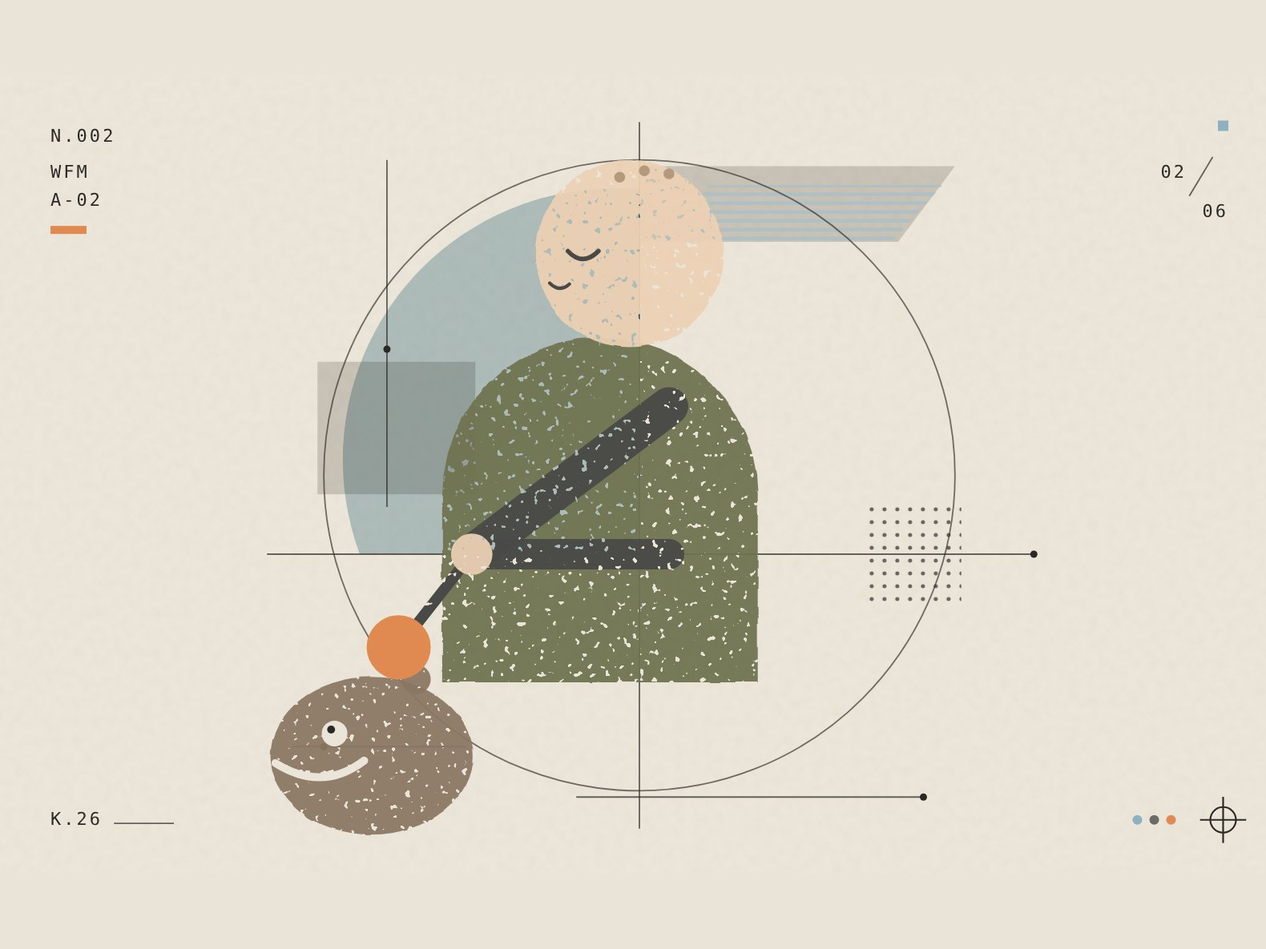
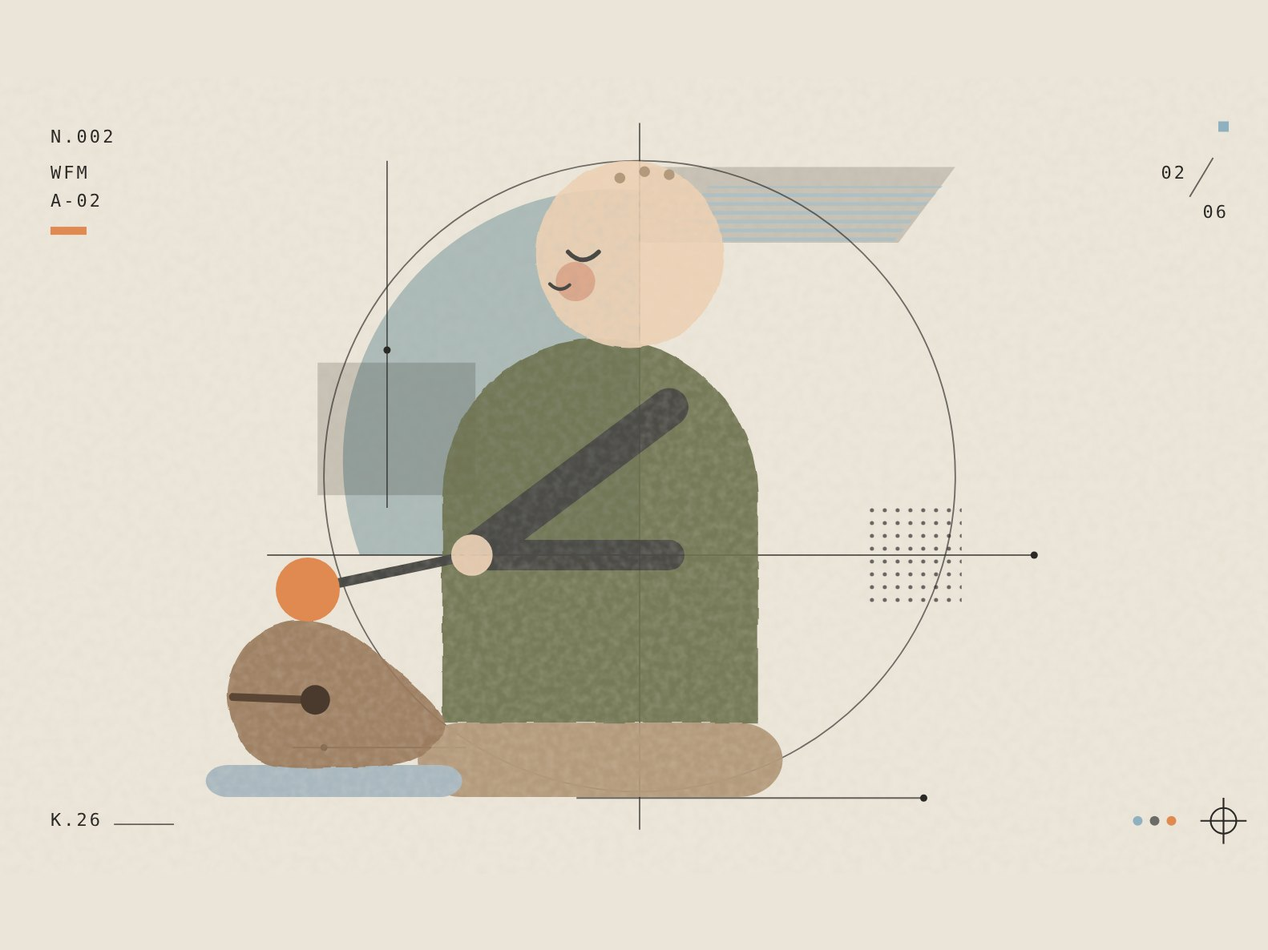
Linkages: seated monk with real-shaped wooden fish, lighter texture, horse card, example thumbnails
Claude-Session: https://claude.ai/code/session_01NPfPdtJwC2J2tRpUdWuEC5

diff --git a/projects/linkage/index.html b/projects/linkage/index.html
@@ -469,9 +469,19 @@ svg.plate.tone .k-hl { stroke: #e08a52 !important; stroke-width: .12 !important;
 svg.plate.tone .k-back { opacity: .42 !important; }
 svg.plate.tone .k-disc { stroke-opacity: .75 !important; stroke-width: .05px !important; }
 svg.plate.tone .r-disc { display: inline; fill: #a9c3cf !important; opacity: .7 !important; stroke: none !important; mix-blend-mode: normal !important; }
-svg.plate.tone .r-cush { display: inline; fill: #c8c7c3 !important; opacity: .8 !important; stroke: none !important; }
+
 svg.plate.tone .r-hit { display: inline; fill: #e08a52 !important; stroke: none !important; }
 svg.plate.tone .pl-accent { r: .3; }
+
+/* ── v3：木魚、蒲團、臉頰 ── */
+svg.plate .r-cush { display: inline; fill: #b49a7c !important; fill-opacity: 1 !important; opacity: 1 !important; stroke: none !important; mix-blend-mode: normal !important; }
+svg.plate .r-pad { display: inline; fill: #a9b8bf !important; fill-opacity: 1 !important; opacity: 1 !important; stroke: none !important; mix-blend-mode: normal !important; }
+svg.plate .r-fish { fill: #9a7a5c !important; }
+svg.plate .k-fish-slot { stroke: #5b4636 !important; stroke-width: .16 !important; stroke-linecap: round; fill: none; }
+svg.plate .k-feye { fill: #4a3a2e !important; }
+svg.plate .r-cheek { display: inline; fill: #e7a99a !important; opacity: .55; }
+svg.plate .k-stick { stroke-width: .2 !important; stroke-linecap: round; }
+svg.plate.tone .r-cush { display: inline; }
 
 </style>
 </head>
@@ -641,7 +651,7 @@ svg.plate.tone .pl-accent { r: .3; }
   <div class="cards">
     <a href="parallel/"><svg class="glyph" data-no="001" data-l="P / A / R" data-c="0.000,-0.500" data-r="6.200" data-ay="1.000" viewBox="-10.416 -7.010 20.832 13.020" aria-hidden="true"><path d="M-2.000 1.000L2.000 1.000" class="k-bar k-base"/><path d="M-2.000 1.000L-2.000 0.000" class="k-bar" style="stroke-width:.75"/><path d="M0.000 -1.000L0.000 -2.000" class="k-bar" style="stroke-width:.75"/><path d="M-4.000 0.000L4.000 0.000L0.000 -3.000Z" class="k-tri"/><circle cx="2.000" cy="1.000" r="1.800" class="k-disc"/><circle cx="-2.000" cy="1.000" r=".13" class="s-fixed"/><circle cx="0.000" cy="-1.000" r=".13" class="s-fixed"/><circle cx="2.000" cy="1.000" r=".13" class="s-fixed"/><circle cx="-2.000" cy="0.000" r=".13" class="s-joint"/><circle cx="0.000" cy="-2.000" r=".13" class="s-joint"/><circle cx="2.000" cy="0.000" r=".36" class="s-joint pl-accent"/></svg><b>三曲柄平移</b><small>Parallel Cranks</small><p>三根一樣長的曲柄帶著一塊板平移，板子不轉。最簡單的起點。</p><span class="meta">1 · 平行曲柄 · 5 片 · 圖釘 6 支</span></a>
     <a href="#sim"><svg id="card-fish" aria-hidden="true"></svg><b>敲木魚</b><small>Wooden Fish</small><p>小和尚慢慢舉槌、快速敲下，一組四連桿的急回。就在這一頁。</p><span class="meta">2 · 1 組四連桿 · 5 片 · 圖釘 4 支</span></a>
-    <a href="../horse-linkage/"><svg viewBox="-1 -1 22 13" aria-hidden="true"><path d="M1 10H21" class="k-floor"/><path d="M2 9L6 3L12 2L19 4L17 9Z" class="k-tri k-front"/><path d="M2 9L5 6" class="k-bar k-back"/><circle cx="17" cy="9" r="1.5" class="k-disc"/><path d="M2 9L6 3M6 3L18 8M17 9L18 8M2 9L17 9" class="k-skel"/><circle cx="2" cy="9" r=".3" class="s-fixed"/><circle cx="17" cy="9" r=".3" class="s-fixed"/></svg><b>壢馬連桿</b><small>Horse Linkage</small><p>校園銅馬跑起來。一組四連桿，前後半身一前一後擺動。</p><span class="meta">3 · 1 組四連桿 · 4 片 · 圖釘 4 支</span></a>
+    <a href="../horse-linkage/"><svg class="glyph" data-no="003" data-l="H / R / S" data-c="4.029,-6.782" data-r="10.397" data-ay="-0.000" viewBox="-13.438 -17.699 34.933 21.833" aria-hidden="true"><path d="M0.000 0.000L11.000 -0.000" class="k-bar k-base"/><path d="M-0.269 0.528L-0.437 0.462L-0.496 -0.058L-0.535 -0.253L-0.234 -0.565L-0.058 -0.582L-0.015 -0.776L-0.023 -1.129L-0.179 -1.562L-0.422 -2.208L-0.736 -2.549L-0.823 -2.773L-0.827 -2.773L-1.101 -3.221L-0.942 -3.485L-0.392 -3.723L0.225 -4.213L0.467 -4.463L0.686 -4.733L0.805 -4.966L0.645 -5.233L0.513 -5.379L0.393 -5.680L0.313 -5.962L0.141 -6.260L0.112 -6.750L0.104 -7.047L0.207 -7.382L0.218 -7.547L-0.215 -7.726L-0.525 -7.769L-1.164 -7.812L-1.501 -7.781L-1.858 -7.585L-2.278 -7.580L-2.859 -7.668L-3.094 -7.838L-3.531 -8.088L-3.900 -8.425L-4.356 -8.993L-3.125 -8.842L-2.527 -8.468L-2.235 -8.558L-1.754 -8.915L-1.296 -9.138L-0.942 -9.067L-0.500 -8.714L0.051 -8.265L0.597 -8.052L0.813 -8.209L1.422 -8.492L2.113 -8.606L2.835 -8.373L3.515 -7.491L3.533 -6.517L3.285 -6.040L3.642 -5.569L3.655 -4.851L3.303 -3.722L3.262 -3.726L3.105 -3.396L3.002 -2.879L3.157 -2.535L3.721 -2.291L4.325 -1.991L4.723 -1.744L4.783 -1.500L5.099 -1.001L5.064 -0.706L4.975 -0.452L4.532 -0.455L4.250 -0.626L4.041 -0.981L4.195 -1.306L4.012 -1.529L3.310 -2.012L2.784 -2.257L2.276 -2.579L2.094 -2.741L2.254 -3.186L2.371 -3.373L2.445 -3.641L2.471 -3.928L2.492 -4.565L2.442 -5.065L2.302 -4.820L1.895 -4.272L1.214 -3.810L0.354 -3.286L-0.005 -3.090L-0.090 -2.914L-0.045 -2.503L0.158 -1.848L0.462 -0.995L0.379 -0.677L0.526 -0.386L0.567 0.061L0.400 0.343L0.094 0.471Z" class="k-tri"/><path d="M2.271 -8.824L1.732 -7.732L2.272 -6.005L3.380 -5.877L3.753 -5.541L5.065 -5.443L6.235 -5.560L6.987 -5.825L7.449 -5.904L7.917 -5.892L8.365 -5.168L8.842 -4.279L9.276 -3.518L9.442 -3.191L9.655 -3.034L9.890 -2.486L10.127 -1.901L10.415 -1.374L10.639 -1.032L10.972 -1.086L11.091 -0.962L11.017 -0.584L11.178 -0.369L11.686 -0.303L12.156 -0.234L12.413 -0.322L12.181 -0.813L11.917 -1.210L11.361 -1.499L10.993 -1.760L10.619 -2.468L10.176 -3.080L10.073 -3.616L9.371 -4.513L9.475 -5.022L9.193 -5.773L9.140 -6.068L9.909 -6.352L10.608 -6.538L10.904 -6.255L11.125 -5.594L11.220 -5.207L11.231 -5.040L11.271 -4.969L11.055 -4.807L10.879 -4.610L10.754 -4.492L11.064 -3.949L11.243 -3.734L11.700 -4.128L11.784 -4.454L11.700 -4.972L11.739 -5.310L11.507 -5.802L11.164 -6.623L11.031 -7.028L10.776 -7.257L10.089 -7.203L9.505 -7.283L9.497 -7.432L9.285 -7.907L9.215 -8.538L9.098 -8.979L8.957 -9.532L8.728 -9.968L8.430 -10.663L8.549 -10.892L9.005 -11.104L9.153 -11.111L9.482 -10.904L9.668 -10.914L9.894 -10.889L10.252 -11.169L10.439 -11.515L10.277 -12.063L9.819 -12.305L9.243 -12.591L9.044 -12.823L8.576 -13.210L8.288 -13.344L7.925 -13.531L7.666 -13.815L7.260 -14.093L7.434 -13.616L7.299 -13.348L7.478 -13.133L7.585 -12.877L6.908 -12.598L7.235 -12.429L6.797 -12.219L6.283 -11.852L6.636 -11.763L6.275 -11.500L5.814 -11.047L6.384 -11.226L6.086 -10.856L5.700 -10.386L6.372 -10.385L5.390 -9.802L5.883 -9.763L6.082 -9.867L5.770 -9.421L5.378 -9.399L4.987 -9.378L4.875 -9.017L4.630 -9.060L4.090 -8.696L3.561 -8.799L3.109 -8.886L2.679 -8.901Z" class="k-tri"/><circle cx="11.000" cy="-0.000" r="1.800" class="k-disc"/><circle cx="0.000" cy="0.000" r=".13" class="s-fixed"/><circle cx="11.000" cy="-0.000" r=".13" class="s-fixed"/><circle cx="2.959" cy="-7.433" r=".13" class="s-joint"/><circle cx="11.682" cy="-0.731" r=".36" class="s-joint pl-accent"/></svg><b>壢馬連桿</b><small>Horse Linkage</small><p>校園銅馬跑起來。一組四連桿，前後半身一前一後擺動。</p><span class="meta">3 · 1 組四連桿 · 4 片 · 圖釘 4 支</span></a>
     <a href="beast/"><svg class="glyph" data-no="004" data-l="B / S / T" data-c="-0.000,3.500" data-r="14.569" data-ay="0.000" viewBox="-24.475 -11.797 48.951 30.594" aria-hidden="true"><path d="M0.000 0.000L-5.000 0.000" class="k-bar k-base"/><path d="M5.000 0.000L9.000 0.000L5.000 -4.000Z" class="k-tri"/><path d="M5.000 0.000L5.000 5.000" class="k-bar" style="stroke-width:.75"/><path d="M0.000 -1.000L5.000 -4.000" class="k-bar" style="stroke-width:.75"/><path d="M0.000 -1.000L5.000 5.000" class="k-bar" style="stroke-width:.75"/><path d="M9.000 0.000L9.000 5.000" class="k-bar" style="stroke-width:.75"/><path d="M5.000 11.000L9.000 5.000L5.000 5.000Z" class="k-tri"/><path d="M-9.000 0.000L-5.000 0.000L-5.000 -4.000Z" class="k-tri"/><path d="M-5.000 5.000L-5.000 0.000" class="k-bar" style="stroke-width:.75"/><path d="M0.000 -1.000L-5.000 -4.000" class="k-bar" style="stroke-width:.75"/><path d="M0.000 -1.000L-5.000 5.000" class="k-bar" style="stroke-width:.75"/><path d="M-9.000 0.000L-9.000 5.000" class="k-bar" style="stroke-width:.75"/><path d="M-9.000 5.000L-5.000 11.000L-5.000 5.000Z" class="k-tri"/><circle cx="0.000" cy="0.000" r="1.800" class="k-disc"/><circle cx="0.000" cy="0.000" r=".13" class="s-fixed"/><circle cx="5.000" cy="0.000" r=".13" class="s-fixed"/><circle cx="-5.000" cy="0.000" r=".13" class="s-fixed"/><circle cx="0.000" cy="-1.000" r=".36" class="s-joint pl-accent"/><circle cx="5.000" cy="-4.000" r=".13" class="s-joint"/><circle cx="9.000" cy="0.000" r=".13" class="s-joint"/><circle cx="5.000" cy="5.000" r=".13" class="s-joint"/><circle cx="-5.000" cy="-4.000" r=".13" class="s-joint"/><circle cx="-9.000" cy="0.000" r=".13" class="s-joint"/><circle cx="-5.000" cy="5.000" r=".13" class="s-joint"/><circle cx="9.000" cy="5.000" r=".13" class="s-joint"/><circle cx="-9.000" cy="5.000" r=".13" class="s-joint"/></svg><b>仿生獸</b><small>Beast</small><p>一個曲柄帶兩組四連桿和一個平行四邊形，腳掌畫出走路的軌跡。</p><span class="meta">4 · 2 組四連桿 · 一隻腳 7 片 · 圖釘 7 支</span></a>
     <a href="quadruped/"><svg class="glyph" data-no="005" data-l="Q / D / R" data-c="-2.157,-3.573" data-r="17.105" data-ay="0.000" viewBox="-30.894 -21.534 57.474 35.921" aria-hidden="true"><path d="M-4.500 0.000L4.500 0.000" class="k-bar k-base"/><path d="M-3.500 -6.000L4.500 0.000L2.500 -6.000Z" class="k-tri"/><path d="M4.500 0.000L7.500 6.000L8.120 -8.620L5.500 -6.000Z" class="k-tri"/><path d="M-5.500 6.000L-3.500 -6.000L-5.500 -0.000Z" class="k-tri"/><path d="M-5.500 -0.000L5.500 -6.000L-1.500 -6.000Z" class="k-tri"/><path d="M-7.500 -5.000L-5.500 -0.000L-4.500 -4.000Z" class="k-tri"/><path d="M-15.500 -7.000L-14.500 -6.000L-7.500 -5.000L-3.500 -6.000L-8.500 -13.000Z" class="k-tri"/><circle cx="-4.500" cy="0.000" r="1.800" class="k-disc"/><circle cx="-4.500" cy="0.000" r=".13" class="s-fixed"/><circle cx="4.500" cy="0.000" r=".13" class="s-fixed"/><circle cx="-5.500" cy="-0.000" r=".36" class="s-joint pl-accent"/><circle cx="5.500" cy="-6.000" r=".13" class="s-joint"/><circle cx="-3.500" cy="-6.000" r=".13" class="s-joint"/><circle cx="-7.500" cy="-5.000" r=".13" class="s-joint"/></svg><b>四腳獸</b><small>Quadruped</small><p>一個曲柄同時帶動前腳、後腳、點頭和搖尾巴。</p><span class="meta">5 · 多組連桿 · 8 片 · 圖釘 6 支</span></a>
     <a href="excavator/"><svg class="glyph" data-no="006" data-l="E / X / C" data-c="6.778,-4.027" data-r="15.923" data-ay="0.000" viewBox="-19.973 -20.747 53.502 33.439" aria-hidden="true"><path d="M-2.000 0.000L2.000 0.000" class="k-bar k-base"/><path d="M-5.649 -2.550L2.000 0.000L7.000 -6.000Z" class="k-tri"/><path d="M-1.000 -1.000L6.000 -8.000" class="k-bar" style="stroke-width:.75"/><path d="M6.000 -8.000L7.000 -6.000L13.000 -0.000L9.000 -7.000Z" class="k-tri"/><path d="M4.000 -3.000L14.000 -2.000" class="k-bar" style="stroke-width:.75"/><path d="M10.999 5.000L12.999 5.000L15.999 4.000L16.999 2.000L16.000 0.000L14.000 -2.000L13.000 -0.000Z" class="k-tri"/><circle cx="-2.000" cy="0.000" r="2.214" class="k-disc"/><circle cx="-2.000" cy="0.000" r=".13" class="s-fixed"/><circle cx="2.000" cy="0.000" r=".13" class="s-fixed"/><circle cx="-1.000" cy="-1.000" r=".36" class="s-joint pl-accent"/><circle cx="7.000" cy="-6.000" r=".13" class="s-joint"/><circle cx="4.000" cy="-3.000" r=".13" class="s-joint"/><circle cx="6.000" cy="-8.000" r=".13" class="s-joint"/><circle cx="13.000" cy="-0.000" r=".13" class="s-joint"/><circle cx="14.000" cy="-2.000" r=".13" class="s-joint"/></svg><b>挖土機</b><small>Excavator</small><p>曲柄銷在滑槽裡滑，大臂擺動，挖斗畫出挖土的軌跡。</p><span class="meta">6 · 滑槽 + 2 組四連桿 · 7 片 · 圖釘 8 支</span></a>
@@ -877,7 +887,7 @@ let PLATE_N=0;
 function plateize(svg,inkSel){
   const u='pl'+(PLATE_N++)+'-';svg.classList.remove('quiet');svg.classList.add('riso','plate');
   const defs=document.createElementNS(NS,'defs');
-  defs.innerHTML=`<filter id="${u}ink" x="-5%" y="-5%" width="110%" height="110%"><feTurbulence type="fractalNoise" baseFrequency="7" numOctaves="2" seed="11" result="n"/><feColorMatrix in="n" type="matrix" values="0 0 0 0 0  0 0 0 0 0  0 0 0 0 0  0 0 0 -30 21.5" result="m"/><feComposite in="SourceGraphic" in2="m" operator="in"/></filter>
+  defs.innerHTML=`<filter id="${u}ink" x="-5%" y="-5%" width="110%" height="110%"><feTurbulence type="fractalNoise" baseFrequency="6" numOctaves="2" seed="11" result="n"/><feColorMatrix in="n" type="matrix" values="0 0 0 0 0  0 0 0 0 0  0 0 0 0 0  0 0 0 -0.3 1.1" result="m"/><feComposite in="SourceGraphic" in2="m" operator="in"/></filter>
     <filter id="${u}paper" x="0" y="0" width="100%" height="100%"><feTurbulence type="fractalNoise" baseFrequency="5" numOctaves="2" seed="5"/><feColorMatrix type="matrix" values="0 0 0 0 .45  0 0 0 0 .4  0 0 0 0 .33  0 0 0 -1.4 .95"/></filter>`;
   svg.insertBefore(defs,svg.firstChild);
   let paper=svg.querySelector('.r-paper');if(!paper){paper=document.createElementNS(NS,'rect');paper.setAttribute('class','r-paper');for(const [k,v] of [['x',-200],['y',-200],['width',400],['height',400]])paper.setAttribute(k,v);svg.insertBefore(paper,defs.nextSibling);}
@@ -931,18 +941,24 @@ function toneize(svg,inkSel){plateize(svg,inkSel);svg.classList.add('tone');}
 
 const QR=["111111101010100000111101001111111", "100000101101101011001111101000001", "101110100010011100110000001011101", "101110101110100000100011101011101", "101110100010110010100100101011101", "100000100111101111100100101000001", "111111101010101010101010101111111", "000000001100100111110001000000000", "101101110001101111101100001001011", "000100001001011011011111001101101", "011110101110010010100011110111011", "001000011111000011001000001101001", "001001100010001010011000110111011", "010010001001101001001000100001110", "010110110000101001011000101100100", "010010000110011100100101111101100", "100000101010000000101100011011100", "010000011001101100100111101011011", "001110111011110100101010011110110", "110101000001001011100010001010000", "111010111010111110000010000101110", "111000001101111110001001001001101", "000001111110010101111111011000011", "010111001011110100001011110111001", "100100100110011001010011111110011", "000000001101001110010100100011010", "111111101101101001111101101010000", "100000101101010011111001100011100", "101110100101110111110011111110101", "101110101101101010010011100100011", "101110101110000111001001001101000", "100000100111101001001011100110001", "111111101001110011110101000011100"];
 /* ── 敲木魚・小和尚：D（肚子）在原點、A（肩膀）在右上 (2, 3)；長度 cm，y 向上 ── */
-const GA=[2,3],DEF={a:2,b:4,c:5},OFF=15*Math.PI/180,MAL=2.4,HEADR=0.65,FISH={rx:2.05,ry:1.6},TH0=Math.PI/2,U=(()=>{const v=[-0.25,-1],l=Math.hypot(...v);return [v[0]/l,v[1]/l];})();
+const GA=[2,3],DEF={a:2,b:4,c:5},OFF=-25*Math.PI/180,MAL=3.4,TAIL=0.8,HEADR=0.65,FISH={rx:2.05,ry:1.6},TH0=Math.PI/2,U=(()=>{const v=[-0.25,-1],l=Math.hypot(...v);return [v[0]/l,v[1]/l];})();
 const ROBE=[[-0.5,3.7],[0.6,4.35],[2.2,4.4],[3.3,3.8],[3.85,1.8],[4.05,-1.0],[3.6,-2.5],[1.5,-2.75],[-2.3,-2.7],[-3.2,-2.25],[-3.05,-1.45],[-1.6,-1.05],[-1.05,0.9],[-0.85,2.8]];
 const HEAD={c:[1.2,6.1],r:1.9};
+/* 木魚側面：左邊圓鼓、往右收尖，側面一道魚嘴縫，縫底一個圓孔（y 向上，原點在木魚中心） */
+const FISH_CP=[[-2.15,-0.15],[-1.85,0.95],[-0.95,1.5],[0.15,1.35],[1.25,0.55],[2.25,-0.55],[1.55,-1.3],[0,-1.45],[-1.55,-1.3]];
+let FISH_P=null;const fishPts=()=>FISH_P||(FISH_P=smoothPts(FISH_CP,8));
+const FISH_TOP=()=>fishPts().reduce((m,q)=>q[1]>m[1]?q:m);
 /* 平滑曲線（Catmull–Rom），讓身體圓一點 */
 function smoothPts(P,n=8){const out=[],N=P.length;for(let i=0;i<N;i++){const p0=P[(i-1+N)%N],p1=P[i],p2=P[(i+1)%N],p3=P[(i+2)%N];
   for(let k=0;k<n;k++){const t=k/n,t2=t*t,t3=t2*t;out.push([0,1].map(j=>0.5*((2*p1[j])+(-p0[j]+p2[j])*t+(2*p0[j]-5*p1[j]+4*p2[j]-p3[j])*t2+(-p0[j]+3*p1[j]-3*p2[j]+p3[j])*t3)));}}return out;}
-const ROBE_S=(()=>{const P=[[-2.6,-2.6],[3.8,-2.6],[3.8,1.2]];for(let k=0;k<=24;k++){const a=Math.PI*k/24;P.push([0.6+3.2*Math.cos(a),1.2+3.2*Math.sin(a)]);}P.push([-2.6,1.2]);return P;})();
+const ROBE_S=(()=>{const P=[[-2.6,-3.4],[3.8,-3.4],[3.8,1.2]];for(let k=0;k<=24;k++){const a=Math.PI*k/24;P.push([0.6+3.2*Math.cos(a),1.2+3.2*Math.sin(a)]);}P.push([-2.6,1.2]);return P;})();
 /* 臉、戒疤、袈裟、木魚的五官：y 向上，畫面上用 -y */
 function monkFace(o){const c=HEAD.c,x=c[0],y=c[1];
   return {eye:`M${x-1.25} ${-(y+0.05)}q.3 .32 .62 0`,cheek:[x-1.1,y-0.55,0.32],mouth:`M${x-1.62} ${-(y-0.6)}q.2 .2 .4 .02`,
     dots:[[x-0.2,y+1.55],[x+0.3,y+1.68],[x+0.8,y+1.62]],ear:[x+0.6,y-0.2,0.42],sash:`M-0.9 -3.9L3.6 0.6`};}
 function fishFace(F){const x=F[0],y=F[1];
+  return {path:'M'+fishPts().map(q=>f3(x+q[0])+' '+f3(-(y+q[1]))).join('L')+'Z',mouth:`M${f3(x-2.05)} ${f3(-(y-0.02))}L${f3(x-0.55)} ${f3(-(y-0.08))}`,eye:[x-0.38,y-0.08,0.3]};}
+function fishFaceOld(F){const x=F[0],y=F[1];
   return {mouth:`M${f3(x-1.95)} ${f3(-(y-0.15))}Q${f3(x-1.0)} ${f3(-(y-0.75))} ${f3(x-0.15)} ${f3(-(y-0.1))}`,eye:[x-0.75,y+0.45,0.26],glint:[x-0.82,y+0.53,0.08],
     scales:`M${f3(x+0.35)} ${f3(-(y+0.75))}q.35 .3 .7 0M${f3(x+0.55)} ${f3(-(y+0.15))}q.35 .3 .7 0M${f3(x+0.3)} ${f3(-(y-0.45))}q.35 .3 .7 0`,
     shine:`M${f3(x-1.3)} ${f3(-(y+1.05))}q.5 -.35 1.1 -.35`,knob:[x+0.9,y+FISH.ry-0.05,0.3]};}
@@ -960,15 +976,15 @@ function analyse(s){
   const list=sw.list;let iMax=0,iMin=0;
   list.forEach((g,i)=>{if(g.phi>list[iMax].phi)iMax=i;if(g.phi<list[iMin].phi)iMin=i;});
   let fish=null,floor=-5,ratio=null;
-  if(list.length){const H=list[iMax].H,rE=1/Math.sqrt(U[0]*U[0]/FISH.rx**2+U[1]*U[1]/FISH.ry**2),k=rE+HEADR;
-    const F=[H[0]+U[0]*k,H[1]+U[1]*k];fish={F,hit:[H[0]+U[0]*HEADR,H[1]+U[1]*HEADR]};floor=Math.min(F[1]-FISH.ry-0.1,-3.4);
+  if(list.length){const H=list[iMax].H,hit=[H[0]+U[0]*HEADR,H[1]+U[1]*HEADR],T=FISH_TOP();
+    const F=[hit[0]-T[0],hit[1]-T[1]];fish={F,hit};floor=Math.min(F[1]-1.45-0.6,-4.6);
     if(sw.full){const n=list.length,strike=((iMax-iMin)+n)%n;ratio=(n-strike)/strike;}}
   const g=grashof({a:s.a,b:s.b,c:s.c,d:dG},'a');
   let kind='none';
   if(list.length){kind=sw.full?(Math.abs(g.diff)<0.05?'crit':'ok'):(Math.abs(g.diff)<0.05&&g.crankShortest?'crit':'jam');}
   return {s:{...s},list,full:sw.full,iMax,iMin,swing:list.length?(list[iMax].phi-list[iMin].phi)*180/Math.PI:0,fish,floor,ratio,g,kind};
 }
-const cushion=fl=>({c:[0.6,(-2.6+fl)/2],rx:3.6,ry:Math.max(0.45,(-2.6-fl)/2)});
+const cushion=fl=>({c:[0.6,(-3.4+fl)/2],rx:3.7,ry:Math.max(0.45,(-3.4-fl)/2)});
 /* 一個畫面（hero、模擬器、小測驗共用）*/
 let VID=0;
 function view(svg,opt={}){
@@ -997,10 +1013,10 @@ function view(svg,opt={}){
   svgEl('circle','r-cheek',svg,{cx:mf.cheek[0],cy:-mf.cheek[1],r:mf.cheek[2]+0.08,fill:`url(#${u}htP)`});
   svgEl('path','k-face',svg,{d:mf.eye});svgEl('path','k-face thin',svg,{d:mf.mouth});
   for(const d of mf.dots)svgEl('circle','k-dot',svg,{cx:d[0],cy:-d[1],r:.11});
-  E.fishG=svgEl('g',null,svg);E.fpad=svgEl('ellipse','r-pad',E.fishG);E.knob=svgEl('circle','r-fish',E.fishG);
-  E.fish=svgEl('ellipse','r-fish',E.fishG,{id:u+'fish',filter:rough});E.fishHt=svgEl('ellipse','r-ht',E.fishG,{fill:`url(#${u}htC)`});
+  E.fpad=svgEl('rect','r-pad',svg,{rx:.45});E.fishG=svgEl('g',null,svg);
+  E.fish=svgEl('path','r-fish',E.fishG,{id:u+'fish',filter:rough});E.fishHt=svgEl('path','r-ht',E.fishG,{fill:`url(#${u}htC)`,transform:'translate(.35 .25)'});
   svgEl('use','r-line',E.fishG,{href:'#'+u+'fish',transform:'translate(-.1 -.07)'});
-  E.slot=svgEl('path','k-fish-slot',E.fishG);E.scale=svgEl('path','k-fish-line',E.fishG);E.feye=svgEl('circle','k-feye',E.fishG);E.fglint=svgEl('circle','k-glint',E.fishG);E.fshine=svgEl('path','k-shine',E.fishG);
+  E.slot=svgEl('path','k-fish-slot',E.fishG);E.feye=svgEl('circle','k-feye',E.fishG);
   E.disc=svgEl('circle','r-disc',svg,{cx:0,cy:0});E.beads=svgEl('circle','k-beads',svg,{cx:0,cy:0});
   E.coup=svgEl('path','r-coup',svg);
   E.arm=svgEl('path','r-arm',svg);E.stick=svgEl('path','k-stick',svg);E.mhead=svgEl('circle','r-mhead',svg,{r:HEADR});E.hand=svgEl('circle','r-hand',svg,{r:.42});
@@ -1015,22 +1031,18 @@ function view(svg,opt={}){
   const V={E,an:null,idx:0,dirPP:1,flash:0,merit:0,onHit:null,
     set(an){this.an=an;this.idx=0;this.dirPP=1;const s=an.s;
       E.disc.setAttribute('r',s.a+0.8);E.beads.setAttribute('r',s.a+0.45);
-      const cu=cushion(an.floor);for(const [e,dx,dy] of [[E.cush,0,0],[E.cushHt,.35,.2]]){e.setAttribute('x',cu.c[0]-cu.rx+dx);e.setAttribute('y',-cu.c[1]-cu.ry+dy);e.setAttribute('width',2*cu.rx);e.setAttribute('height',2*cu.ry);}
+      const cu=cushion(an.floor);E.cush.setAttribute('rx',.9);for(const [e,dx,dy] of [[E.cush,0,0],[E.cushHt,.35,.2]]){e.setAttribute('x',cu.c[0]-cu.rx+dx);e.setAttribute('y',-cu.c[1]-cu.ry+dy);e.setAttribute('width',2*cu.rx);e.setAttribute('height',2*cu.ry);}
       E.floor.setAttribute('x1',vb[0]);E.floor.setAttribute('x2',vb[0]+vb[2]);E.floor.setAttribute('y1',-an.floor);E.floor.setAttribute('y2',-an.floor);
-      if(an.fish){const F=an.fish.F;E.fish.setAttribute('cx',F[0]);E.fish.setAttribute('cy',-F[1]);E.fish.setAttribute('rx',FISH.rx);E.fish.setAttribute('ry',FISH.ry);
-        const ff=fishFace(F);E.slot.setAttribute('d',ff.mouth);E.scale.setAttribute('d',ff.scales);E.fshine.setAttribute('d',ff.shine);
+      if(an.fish){const F=an.fish.F,ff=fishFace(F);E.fish.setAttribute('d',ff.path);E.fishHt.setAttribute('d',ff.path);E.slot.setAttribute('d',ff.mouth);
         E.feye.setAttribute('cx',ff.eye[0]);E.feye.setAttribute('cy',-ff.eye[1]);E.feye.setAttribute('r',ff.eye[2]);
-        E.fglint.setAttribute('cx',ff.glint[0]);E.fglint.setAttribute('cy',-ff.glint[1]);E.fglint.setAttribute('r',ff.glint[2]);
-        E.knob.setAttribute('cx',ff.knob[0]);E.knob.setAttribute('cy',-ff.knob[1]);E.knob.setAttribute('r',ff.knob[2]);
-        E.fpad.setAttribute('cx',F[0]);E.fpad.setAttribute('cy',-(F[1]-FISH.ry+0.05));E.fpad.setAttribute('rx',FISH.rx*1.05);E.fpad.setAttribute('ry',0.35);
-        E.fishG.style.transformOrigin=`${F[0]}px ${-(F[1]-FISH.ry)}px`;E.fishG.style.display='';
-        E.plus.setAttribute('x',F[0]);E.plus.setAttribute('y',-F[1]-FISH.ry-0.8);E.plus2.setAttribute('x',F[0]+0.09);E.plus2.setAttribute('y',-F[1]-FISH.ry-0.74);
-        E.fishHt.setAttribute('cx',F[0]+0.45);E.fishHt.setAttribute('cy',-F[1]+0.3);E.fishHt.setAttribute('rx',FISH.rx*0.8);E.fishHt.setAttribute('ry',FISH.ry*0.75);}
-      else E.fishG.style.display='none';
+        const pb=F[1]-1.45;E.fpad.setAttribute('x',F[0]-2.6);E.fpad.setAttribute('y',-pb-0.05);E.fpad.setAttribute('width',5.2);E.fpad.setAttribute('height',Math.max(0.5,pb-an.floor+0.05));E.fpad.style.display='';
+        E.fishG.style.transformOrigin=`${F[0]}px ${-pb}px`;E.fishG.style.display='';
+        E.plus.setAttribute('x',F[0]);E.plus.setAttribute('y',-F[1]-2.4);E.plus2.setAttribute('x',F[0]+0.09);E.plus2.setAttribute('y',-F[1]-2.34);}
+      else{E.fishG.style.display='none';E.fpad.style.display='none';}
       const L=an.list;E.trace.setAttribute('d',L.length?'M'+L.filter((_,i)=>i%4===0).map(g=>f3(g.H[0])+' '+f3(-g.H[1])).join('L'):'');
       this.draw();},
     draw(){const an=this.an;if(!an||!an.list.length)return;const g=an.list[Math.floor(this.idx)%an.list.length];
-      E.coup.setAttribute('d',segD(g.C,g.B));E.arm.setAttribute('d',segD(g.A,g.B));E.stick.setAttribute('d',segD(g.B,g.H));
+      E.coup.setAttribute('d',segD(g.C,g.B));E.arm.setAttribute('d',segD(g.A,g.B));{const d=[g.H[0]-g.B[0],g.H[1]-g.B[1]],l=Math.hypot(...d);E.stick.setAttribute('d',segD([g.B[0]-d[0]/l*TAIL,g.B[1]-d[1]/l*TAIL],g.H));}
       E.mhead.setAttribute('cx',g.H[0]);E.mhead.setAttribute('cy',-g.H[1]);E.hand.setAttribute('cx',g.B[0]);E.hand.setAttribute('cy',-g.B[1]);
       const ln=(l,P,Q)=>{l.setAttribute('x1',P[0]);l.setAttribute('y1',-P[1]);l.setAttribute('x2',Q[0]);l.setAttribute('y2',-Q[1]);};
       ln(E.ground,g.D,g.A);ln(E.lAB,g.A,g.B);ln(E.lBC,g.B,g.C);ln(E.lCD,g.D,g.C);
@@ -1058,11 +1070,11 @@ const st={s:{...DEF},playing:!reduce,speed:0.5};
 const hero=view($('hero'),{vb:[-8.6,-9.8,15.2,17.4],noSkel:true});
 const main=view($('stage'),{vb:[-8,-8.9,14,15.4]});
 const qv=view($('fig-quiz'),{vb:[-8,-9.2,14,15.7]});
-{const INK='.r-robe,.r-skin,.r-fish,.r-arm,.r-coup,.r-hand,.k-stick';toneize($('stage'),INK);toneize($('fig-quiz'),INK);}
+{const INK='.r-cush,.r-pad,.r-robe,.r-skin,.r-fish,.r-arm,.r-coup,.r-hand,.k-stick';toneize($('stage'),INK);toneize($('fig-quiz'),INK);}
 main.onHit=m=>{$('merit').textContent=m;knock();};
 hero.set(analyse(DEF));
 (function(){const an=analyse(DEF);const trace='M'+an.list.filter((_,i)=>i%4===0).map(g=>f3(g.H[0])+' '+f3(-g.H[1])).join('L');
-  const INK='.r-robe,.r-skin,.r-fish,.r-arm,.r-coup,.r-hand,.k-stick';plateize($('hero'),INK);plateOverlay($('hero'),[-8.6,-9.8,15.2,17.4],{no:'002',letters:'W / F / M',phrase:'Malleus et Piscis',c:[-1,-1.1],R:6.6,ay:0});})();
+  const INK='.r-cush,.r-pad,.r-robe,.r-skin,.r-fish,.r-arm,.r-coup,.r-hand,.k-stick';plateize($('hero'),INK);plateOverlay($('hero'),[-8.6,-9.8,15.2,17.4],{no:'002',letters:'W / F / M',phrase:'Malleus et Piscis',c:[-1,-1.1],R:6.6,ay:0});})();
 const keys=['a','b','c'];
 function syncInputs(){for(const k of keys){$('in-'+k).value=st.s[k];$('out-'+k).textContent=n1(st.s[k])+' cm';}}
 const KIND={ok:['轉得動','曲柄可以轉一整圈。 The crank turns all the way round.'],
@@ -1117,15 +1129,15 @@ function partsSVG(s,an,full){
   const md=[Math.cos(OFF),Math.sin(OFF)],Bm=p.arm.B,Hs=[Bm[0]+MAL*md[0],Bm[1]-MAL*md[1]];
   o+=outline([...base,{circle:[...M(p.disc.D),p.disc.R*10]}]);
   if(full){
-    o+=outline([{pts:[M(p.coup.C),M(p.coup.B)]},{pts:[M(p.arm.A),M(p.arm.B)]},{pts:[M(p.arm.B),M(Hs)],w:3.5},{circle:[...M(Hs),HEADR*10]},{ellipse:[...M(p.fish),FISH.rx*10,FISH.ry*10]},{circle:[M(p.fish)[0]+9,M(p.fish)[1]-FISH.ry*10+0.5,3]}]);
-    const Fs=M(p.fish),fx=Fs[0],fy=Fs[1];o+=`<path d="M${f2(fx-19.5)} ${f2(fy+1.5)}Q${f2(fx-10)} ${f2(fy+7.5)} ${f2(fx-1.5)} ${f2(fy+1)}" fill="none" stroke="${INK}" stroke-width="1.4" stroke-linecap="round"/><circle cx="${f2(fx-7.5)}" cy="${f2(fy-4.5)}" r="2.4" fill="${INK}"/><circle cx="${f2(fx-8.2)}" cy="${f2(fy-5.3)}" r="0.8" fill="#fff"/><path d="M${f2(fx+3.5)} ${f2(fy-7.5)}q3.5 3 7 0M${f2(fx+5.5)} ${f2(fy-1.5)}q3.5 3 7 0M${f2(fx+3)} ${f2(fy+4.5)}q3.5 3 7 0" fill="none" stroke="${INK}" stroke-width="0.35"/>`+T(Fs[0],Fs[1]+FISH.ry*10+5,'木魚（不打孔，貼在底座的虛線上）',{size:2.6,anchor:'middle',fill:MID});
+    o+=outline([{pts:[M(p.coup.C),M(p.coup.B)]},{pts:[M(p.arm.A),M(p.arm.B)]},{pts:[M([Bm[0]-TAIL*md[0],Bm[1]+TAIL*md[1]]),M(Hs)],w:3.5},{circle:[...M(Hs),HEADR*10]},{pts:fishPts().map(q=>M([p.fish[0]+q[0],p.fish[1]-q[1]])),closed:true,w:0.6}]);
+    const Fs=M(p.fish),fx=Fs[0],fy=Fs[1];o+=`<path d="M${f2(fx-20.5)} ${f2(fy+0.2)}L${f2(fx-5.5)} ${f2(fy+0.8)}" fill="none" stroke="${INK}" stroke-width="1.4" stroke-linecap="round"/><circle cx="${f2(fx-3.8)}" cy="${f2(fy+0.8)}" r="3" fill="${INK}"/>`+T(Fs[0],Fs[1]+19.5,'木魚（不打孔，貼在底座的虛線上）',{size:2.6,anchor:'middle',fill:MID});
     const mf=monkFace(),Q=q=>M(at(D,q)),e0=Q([HEAD.c[0]-1.25,HEAD.c[1]+0.05]),ck=Q(mf.cheek),mo=Q([HEAD.c[0]-1.62,HEAD.c[1]-0.6]);
     o+=`<path d="M${f2(e0[0])} ${f2(e0[1])}q3 3.2 6.2 0" fill="none" stroke="${INK}" stroke-width="0.5" stroke-linecap="round"/><circle cx="${f2(ck[0])}" cy="${f2(ck[1])}" r="3.2" fill="none" stroke="${INK}" stroke-width="0.2" stroke-dasharray="0.6 0.6"/><path d="M${f2(mo[0])} ${f2(mo[1])}q2 2 4 .2" fill="none" stroke="${INK}" stroke-width="0.35" stroke-linecap="round"/>`;
     for(const d of mf.dots){const q=Q(d);o+=`<circle cx="${f2(q[0])}" cy="${f2(q[1])}" r="0.9" fill="${INK}"/>`;}
     const s1=Q([-0.9,3.9]),s2=Q([3.6,-0.6]);o+=L(s1[0],s1[1],s2[0],s2[1],0.3);
     
   }
-  const Fb=M(at(D,F));o+=`<ellipse cx="${f2(Fb[0])}" cy="${f2(Fb[1])}" rx="${FISH.rx*10}" ry="${FISH.ry*10}" fill="none" stroke="${INK}" stroke-width="0.3" stroke-dasharray="1.2 1"/>`+T(Fb[0],Fb[1]+1,full?'木魚貼這裡':'被敲的東西放這裡',{size:2.6,anchor:'middle',fill:MID});
+  const Fb=M(at(D,F));o+=`<path d="M${fishPts().map(q=>{const m=M(at(D,[F[0]+q[0],F[1]+q[1]]));return f2(m[0])+' '+f2(m[1]);}).join('L')}Z" fill="none" stroke="${INK}" stroke-width="0.3" stroke-dasharray="1.2 1"/>`+T(Fb[0],Fb[1]+1,full?'木魚貼這裡':'被敲的東西放這裡',{size:2.6,anchor:'middle',fill:MID});
   if(!full){const h=M(at(D,an.fish?an.fish.hit:[-2.6,-1.4]));o+=L(h[0]-2,h[1]-2,h[0]+2,h[1]+2,0.35)+L(h[0]-2,h[1]+2,h[0]+2,h[1]-2,0.35)+T(h[0]+3,h[1]-2.5,'敲擊點',{size:2.8,fill:MID});
     o+=`<circle cx="${f2(M(Hs)[0])}" cy="${f2(M(Hs)[1])}" r="${HEADR*10}" fill="none" stroke="${INK}" stroke-width="0.25" stroke-dasharray="1 0.8"/>`+T(M(Hs)[0],M(Hs)[1]+11,'槌頭',{size:2.8,anchor:'middle',fill:MID});}
   const Dm=M(D),Am=M(at(D,GA));
@@ -1144,7 +1156,7 @@ function thumb(an){
   if(!an.list.length)return '';const g=an.list[an.iMax],k=1.25,tx=106,ty=25,P=q=>[tx+q[0]*k,ty-q[1]*k];let o='';
   o+=`<path d="M${ROBE.map(q=>P(q).map(f2).join(' ')).join('L')}Z" fill="#ececec" stroke="${INK}" stroke-width="0.15"/>`;
   const h=P(HEAD.c);o+=`<circle cx="${f2(h[0])}" cy="${f2(h[1])}" r="${HEAD.r*k}" fill="#ececec" stroke="${INK}" stroke-width="0.15"/>`;
-  if(an.fish){const F=P(an.fish.F);o+=`<ellipse cx="${f2(F[0])}" cy="${f2(F[1])}" rx="${FISH.rx*k}" ry="${FISH.ry*k}" fill="#d9d9d9" stroke="${INK}" stroke-width="0.15"/>`;}
+  if(an.fish){const F=an.fish.F;o+=`<path d="M${fishPts().map(q=>P([F[0]+q[0],F[1]+q[1]]).map(f2).join(' ')).join('L')}Z" fill="#d9d9d9" stroke="${INK}" stroke-width="0.15"/>`;}
   for(const [a,b] of [['A','B'],['B','C'],['C','D'],['A','D']]){const p1=P(g[a]),p2=P(g[b]);o+=L(p1[0],p1[1],p2[0],p2[1],0.3);}
   const B=P(g.B),H=P(g.H);o+=L(B[0],B[1],H[0],H[1],0.3)+`<circle cx="${f2(H[0])}" cy="${f2(H[1])}" r="${HEADR*k}" fill="#999" stroke="${INK}" stroke-width="0.15"/>`;
   for(const q of 'ABCD'){const m=P(g[q]);o+=`<circle cx="${f2(m[0])}" cy="${f2(m[1])}" r="0.6" fill="${q==='A'||q==='D'?INK:'#fff'}" stroke="${INK}" stroke-width="0.2"/>`;}
@@ -1164,7 +1176,7 @@ $('btn-ws-std').addEventListener('click',()=>{buildSheets(DEF);requestAnimationF
 
 /* 卡片小圖：用同一個畫面，停在敲下的那一刻 */
 (function(){const el=document.getElementById('card-fish');if(!el)return;const vb=[-11.6,-9.75,26,16.25];const v=view(el,{vb,noGrid:true,noSkel:true});const an=analyse(DEF);v.set(an);v.E.trace.style.display='none';v.idx=an.iMax;v.draw();
-  plateize(el,'.r-robe,.r-skin,.r-fish,.r-arm,.r-coup,.r-hand,.k-stick');plateOverlay(el,vb,{no:'002',letters:'W / F / M',c:[1.4,-1.6],R:6.4,ay:0});})();
+  plateize(el,'.r-cush,.r-pad,.r-robe,.r-skin,.r-fish,.r-arm,.r-coup,.r-hand,.k-stick');plateOverlay(el,vb,{no:'002',letters:'W / F / M',c:[1.4,-1.6],R:6.4,ay:0});})();
 /* ── 範例卡片：每張都是用自己的連桿算出來的符號 ── */
 document.querySelectorAll('.cards svg.glyph').forEach(s=>{plateize(s);const vb=s.getAttribute('viewBox').split(' ').map(Number),c=s.dataset.c.split(',').map(Number);plateOverlay(s,vb,{no:s.dataset.no,letters:s.dataset.l,c,R:+s.dataset.r,ay:+s.dataset.ay});});
 

diff --git a/projects/linkage/beast/index.html b/projects/linkage/beast/index.html
@@ -469,9 +469,19 @@ svg.plate.tone .k-hl { stroke: #e08a52 !important; stroke-width: .12 !important;
 svg.plate.tone .k-back { opacity: .42 !important; }
 svg.plate.tone .k-disc { stroke-opacity: .75 !important; stroke-width: .05px !important; }
 svg.plate.tone .r-disc { display: inline; fill: #a9c3cf !important; opacity: .7 !important; stroke: none !important; mix-blend-mode: normal !important; }
-svg.plate.tone .r-cush { display: inline; fill: #c8c7c3 !important; opacity: .8 !important; stroke: none !important; }
+
 svg.plate.tone .r-hit { display: inline; fill: #e08a52 !important; stroke: none !important; }
 svg.plate.tone .pl-accent { r: .3; }
+
+/* ── v3：木魚、蒲團、臉頰 ── */
+svg.plate .r-cush { display: inline; fill: #b49a7c !important; fill-opacity: 1 !important; opacity: 1 !important; stroke: none !important; mix-blend-mode: normal !important; }
+svg.plate .r-pad { display: inline; fill: #a9b8bf !important; fill-opacity: 1 !important; opacity: 1 !important; stroke: none !important; mix-blend-mode: normal !important; }
+svg.plate .r-fish { fill: #9a7a5c !important; }
+svg.plate .k-fish-slot { stroke: #5b4636 !important; stroke-width: .16 !important; stroke-linecap: round; fill: none; }
+svg.plate .k-feye { fill: #4a3a2e !important; }
+svg.plate .r-cheek { display: inline; fill: #e7a99a !important; opacity: .55; }
+svg.plate .k-stick { stroke-width: .2 !important; stroke-linecap: round; }
+svg.plate.tone .r-cush { display: inline; }
 
 </style>
 </head>
@@ -863,7 +873,7 @@ let PLATE_N=0;
 function plateize(svg,inkSel){
   const u='pl'+(PLATE_N++)+'-';svg.classList.remove('quiet');svg.classList.add('riso','plate');
   const defs=document.createElementNS(NS,'defs');
-  defs.innerHTML=`<filter id="${u}ink" x="-5%" y="-5%" width="110%" height="110%"><feTurbulence type="fractalNoise" baseFrequency="7" numOctaves="2" seed="11" result="n"/><feColorMatrix in="n" type="matrix" values="0 0 0 0 0  0 0 0 0 0  0 0 0 0 0  0 0 0 -30 21.5" result="m"/><feComposite in="SourceGraphic" in2="m" operator="in"/></filter>
+  defs.innerHTML=`<filter id="${u}ink" x="-5%" y="-5%" width="110%" height="110%"><feTurbulence type="fractalNoise" baseFrequency="6" numOctaves="2" seed="11" result="n"/><feColorMatrix in="n" type="matrix" values="0 0 0 0 0  0 0 0 0 0  0 0 0 0 0  0 0 0 -0.3 1.1" result="m"/><feComposite in="SourceGraphic" in2="m" operator="in"/></filter>
     <filter id="${u}paper" x="0" y="0" width="100%" height="100%"><feTurbulence type="fractalNoise" baseFrequency="5" numOctaves="2" seed="5"/><feColorMatrix type="matrix" values="0 0 0 0 .45  0 0 0 0 .4  0 0 0 0 .33  0 0 0 -1.4 .95"/></filter>`;
   svg.insertBefore(defs,svg.firstChild);
   let paper=svg.querySelector('.r-paper');if(!paper){paper=document.createElementNS(NS,'rect');paper.setAttribute('class','r-paper');for(const [k,v] of [['x',-200],['y',-200],['width',400],['height',400]])paper.setAttribute(k,v);svg.insertBefore(paper,defs.nextSibling);}

diff --git a/projects/linkage/excavator/index.html b/projects/linkage/excavator/index.html
@@ -473,6 +473,16 @@ svg.plate.tone .r-cush { display: inline; fill: #c8c7c3 !important; opacity: .8 
 svg.plate.tone .r-hit { display: inline; fill: #e08a52 !important; stroke: none !important; }
 svg.plate.tone .pl-accent { r: .3; }
 
+/* ── v3：木魚、蒲團、臉頰 ── */
+svg.plate .r-cush { display: inline; fill: #b49a7c !important; fill-opacity: 1 !important; opacity: 1 !important; stroke: none !important; mix-blend-mode: normal !important; }
+svg.plate .r-pad { display: inline; fill: #a9b8bf !important; fill-opacity: 1 !important; opacity: 1 !important; stroke: none !important; mix-blend-mode: normal !important; }
+svg.plate .r-fish { fill: #9a7a5c !important; }
+svg.plate .k-fish-slot { stroke: #5b4636 !important; stroke-width: .16 !important; stroke-linecap: round; fill: none; }
+svg.plate .k-feye { fill: #4a3a2e !important; }
+svg.plate .r-cheek { display: inline; fill: #e7a99a !important; opacity: .55; }
+svg.plate .k-stick { stroke-width: .2 !important; stroke-linecap: round; }
+svg.plate.tone .r-cush { display: inline; }
+
 </style>
 </head>
 <body>
@@ -781,7 +791,7 @@ let PLATE_N=0;
 function plateize(svg,inkSel){
   const u='pl'+(PLATE_N++)+'-';svg.classList.remove('quiet');svg.classList.add('riso','plate');
   const defs=document.createElementNS(NS,'defs');
-  defs.innerHTML=`<filter id="${u}ink" x="-5%" y="-5%" width="110%" height="110%"><feTurbulence type="fractalNoise" baseFrequency="7" numOctaves="2" seed="11" result="n"/><feColorMatrix in="n" type="matrix" values="0 0 0 0 0  0 0 0 0 0  0 0 0 0 0  0 0 0 -30 21.5" result="m"/><feComposite in="SourceGraphic" in2="m" operator="in"/></filter>
+  defs.innerHTML=`<filter id="${u}ink" x="-5%" y="-5%" width="110%" height="110%"><feTurbulence type="fractalNoise" baseFrequency="6" numOctaves="2" seed="11" result="n"/><feColorMatrix in="n" type="matrix" values="0 0 0 0 0  0 0 0 0 0  0 0 0 0 0  0 0 0 -0.3 1.1" result="m"/><feComposite in="SourceGraphic" in2="m" operator="in"/></filter>
     <filter id="${u}paper" x="0" y="0" width="100%" height="100%"><feTurbulence type="fractalNoise" baseFrequency="5" numOctaves="2" seed="5"/><feColorMatrix type="matrix" values="0 0 0 0 .45  0 0 0 0 .4  0 0 0 0 .33  0 0 0 -1.4 .95"/></filter>`;
   svg.insertBefore(defs,svg.firstChild);
   let paper=svg.querySelector('.r-paper');if(!paper){paper=document.createElementNS(NS,'rect');paper.setAttribute('class','r-paper');for(const [k,v] of [['x',-200],['y',-200],['width',400],['height',400]])paper.setAttribute(k,v);svg.insertBefore(paper,defs.nextSibling);}

diff --git a/projects/linkage/parallel/index.html b/projects/linkage/parallel/index.html
@@ -473,6 +473,16 @@ svg.plate.tone .r-cush { display: inline; fill: #c8c7c3 !important; opacity: .8 
 svg.plate.tone .r-hit { display: inline; fill: #e08a52 !important; stroke: none !important; }
 svg.plate.tone .pl-accent { r: .3; }
 
+/* ── v3：木魚、蒲團、臉頰 ── */
+svg.plate .r-cush { display: inline; fill: #b49a7c !important; fill-opacity: 1 !important; opacity: 1 !important; stroke: none !important; mix-blend-mode: normal !important; }
+svg.plate .r-pad { display: inline; fill: #a9b8bf !important; fill-opacity: 1 !important; opacity: 1 !important; stroke: none !important; mix-blend-mode: normal !important; }
+svg.plate .r-fish { fill: #9a7a5c !important; }
+svg.plate .k-fish-slot { stroke: #5b4636 !important; stroke-width: .16 !important; stroke-linecap: round; fill: none; }
+svg.plate .k-feye { fill: #4a3a2e !important; }
+svg.plate .r-cheek { display: inline; fill: #e7a99a !important; opacity: .55; }
+svg.plate .k-stick { stroke-width: .2 !important; stroke-linecap: round; }
+svg.plate.tone .r-cush { display: inline; }
+
 </style>
 </head>
 <body>
@@ -782,7 +792,7 @@ let PLATE_N=0;
 function plateize(svg,inkSel){
   const u='pl'+(PLATE_N++)+'-';svg.classList.remove('quiet');svg.classList.add('riso','plate');
   const defs=document.createElementNS(NS,'defs');
-  defs.innerHTML=`<filter id="${u}ink" x="-5%" y="-5%" width="110%" height="110%"><feTurbulence type="fractalNoise" baseFrequency="7" numOctaves="2" seed="11" result="n"/><feColorMatrix in="n" type="matrix" values="0 0 0 0 0  0 0 0 0 0  0 0 0 0 0  0 0 0 -30 21.5" result="m"/><feComposite in="SourceGraphic" in2="m" operator="in"/></filter>
+  defs.innerHTML=`<filter id="${u}ink" x="-5%" y="-5%" width="110%" height="110%"><feTurbulence type="fractalNoise" baseFrequency="6" numOctaves="2" seed="11" result="n"/><feColorMatrix in="n" type="matrix" values="0 0 0 0 0  0 0 0 0 0  0 0 0 0 0  0 0 0 -0.3 1.1" result="m"/><feComposite in="SourceGraphic" in2="m" operator="in"/></filter>
     <filter id="${u}paper" x="0" y="0" width="100%" height="100%"><feTurbulence type="fractalNoise" baseFrequency="5" numOctaves="2" seed="5"/><feColorMatrix type="matrix" values="0 0 0 0 .45  0 0 0 0 .4  0 0 0 0 .33  0 0 0 -1.4 .95"/></filter>`;
   svg.insertBefore(defs,svg.firstChild);
   let paper=svg.querySelector('.r-paper');if(!paper){paper=document.createElementNS(NS,'rect');paper.setAttribute('class','r-paper');for(const [k,v] of [['x',-200],['y',-200],['width',400],['height',400]])paper.setAttribute(k,v);svg.insertBefore(paper,defs.nextSibling);}

diff --git a/projects/linkage/quadruped/index.html b/projects/linkage/quadruped/index.html
@@ -473,6 +473,16 @@ svg.plate.tone .r-cush { display: inline; fill: #c8c7c3 !important; opacity: .8 
 svg.plate.tone .r-hit { display: inline; fill: #e08a52 !important; stroke: none !important; }
 svg.plate.tone .pl-accent { r: .3; }
 
+/* ── v3：木魚、蒲團、臉頰 ── */
+svg.plate .r-cush { display: inline; fill: #b49a7c !important; fill-opacity: 1 !important; opacity: 1 !important; stroke: none !important; mix-blend-mode: normal !important; }
+svg.plate .r-pad { display: inline; fill: #a9b8bf !important; fill-opacity: 1 !important; opacity: 1 !important; stroke: none !important; mix-blend-mode: normal !important; }
+svg.plate .r-fish { fill: #9a7a5c !important; }
+svg.plate .k-fish-slot { stroke: #5b4636 !important; stroke-width: .16 !important; stroke-linecap: round; fill: none; }
+svg.plate .k-feye { fill: #4a3a2e !important; }
+svg.plate .r-cheek { display: inline; fill: #e7a99a !important; opacity: .55; }
+svg.plate .k-stick { stroke-width: .2 !important; stroke-linecap: round; }
+svg.plate.tone .r-cush { display: inline; }
+
 </style>
 </head>
 <body>
@@ -779,7 +789,7 @@ let PLATE_N=0;
 function plateize(svg,inkSel){
   const u='pl'+(PLATE_N++)+'-';svg.classList.remove('quiet');svg.classList.add('riso','plate');
   const defs=document.createElementNS(NS,'defs');
-  defs.innerHTML=`<filter id="${u}ink" x="-5%" y="-5%" width="110%" height="110%"><feTurbulence type="fractalNoise" baseFrequency="7" numOctaves="2" seed="11" result="n"/><feColorMatrix in="n" type="matrix" values="0 0 0 0 0  0 0 0 0 0  0 0 0 0 0  0 0 0 -30 21.5" result="m"/><feComposite in="SourceGraphic" in2="m" operator="in"/></filter>
+  defs.innerHTML=`<filter id="${u}ink" x="-5%" y="-5%" width="110%" height="110%"><feTurbulence type="fractalNoise" baseFrequency="6" numOctaves="2" seed="11" result="n"/><feColorMatrix in="n" type="matrix" values="0 0 0 0 0  0 0 0 0 0  0 0 0 0 0  0 0 0 -0.3 1.1" result="m"/><feComposite in="SourceGraphic" in2="m" operator="in"/></filter>
     <filter id="${u}paper" x="0" y="0" width="100%" height="100%"><feTurbulence type="fractalNoise" baseFrequency="5" numOctaves="2" seed="5"/><feColorMatrix type="matrix" values="0 0 0 0 .45  0 0 0 0 .4  0 0 0 0 .33  0 0 0 -1.4 .95"/></filter>`;
   svg.insertBefore(defs,svg.firstChild);
   let paper=svg.querySelector('.r-paper');if(!paper){paper=document.createElementNS(NS,'rect');paper.setAttribute('class','r-paper');for(const [k,v] of [['x',-200],['y',-200],['width',400],['height',400]])paper.setAttribute(k,v);svg.insertBefore(paper,defs.nextSibling);}

diff --git a/style.css b/style.css
@@ -116,16 +116,14 @@ a:focus-visible, button:focus-visible, summary:focus-visible { outline: 2px soli
 .desc { margin: 0; font-size: 15px; color: var(--ink); max-width: 38em; }
 .go { justify-self: start; font: 400 12.5px var(--mono); letter-spacing: .1em; text-transform: uppercase; text-decoration: none; color: var(--accent); border-bottom: 1px solid currentColor; padding-bottom: 2px; }
 .go:hover { color: var(--ink); }
-/* second level: examples inside one work, fold open */
-.sub { border-top: 1px solid var(--hair); padding-top: 10px; }
-.sub summary { cursor: pointer; list-style: none; font: 400 12px var(--mono); letter-spacing: .1em; text-transform: uppercase; color: var(--ink-2); }
-.sub summary::-webkit-details-marker { display: none; }
-.sub summary::after { content: " +"; }
-.sub[open] summary::after { content: " −"; }
-.sub ul { list-style: none; margin: 10px 0 0; padding: 0; display: grid; gap: 6px; }
-.sub li { border-left: 1px solid var(--hair); padding-left: 12px; }
-.sub a { font-size: 14.5px; color: var(--ink); text-decoration: none; border-bottom: 1px solid var(--hair); }
-.sub a:hover { color: var(--accent); border-color: currentColor; }
+/* second level: the examples inside one work, as a small index of plates */
+.plates { display: grid; gap: 14px; min-width: 0; }
+.subs { list-style: none; margin: 0; padding: 0; display: grid; grid-template-columns: repeat(3, minmax(0, 1fr)); gap: 10px; }
+.subs a { display: grid; gap: 5px; text-decoration: none; color: var(--ink-2); }
+.subs img { width: 100%; aspect-ratio: 4 / 3; object-fit: cover; display: block; border: 1px solid var(--hair); transition: opacity .2s; }
+.subs span { font: 400 10.5px var(--mono); letter-spacing: .08em; text-transform: uppercase; white-space: nowrap; overflow: hidden; text-overflow: ellipsis; }
+.subs a:hover img { opacity: .8; }
+.subs a:hover span { color: var(--accent); }
 
 /* ---------- index (checklist of works) ---------- */
 .checklist-wrap { overflow-x: auto; margin-top: 18px; }

diff --git a/main.js b/main.js
@@ -35,11 +35,14 @@ function renderWorks(projects) {
     const plate = w.image
       ? `<figure class="plate${w.image_style === "line" ? " line" : ""}"><img src="${esc(w.image)}" alt="${esc(w.title)}" loading="lazy"></figure>`
       : `<figure class="plate empty"><figcaption>Plate ${w.no} · image to come</figcaption></figure>`;
+    const subs = w.sub && w.sub.length
+      ? `<ul class="subs">${w.sub.map((s) => `<li><a href="${esc(s.link)}" target="_blank" rel="noopener"><img src="${esc(s.image)}" alt="" loading="lazy"><span>${esc(s.title)}</span></a></li>`).join("")}</ul>`
+      : "";
     const status = STATUS[w.status] ? w.status : "concept";
     return `
     <article class="work" id="work-${w.no}">
       <div class="no" aria-hidden="true">${w.no}</div>
-      ${plate}
+      <div class="plates">${plate}${subs}</div>
       <div class="label">
         <p class="label-top">No. ${w.no}<span class="status ${status}">${STATUS[status]}</span></p>
         <h3>${esc(w.title)}</h3>
@@ -53,7 +56,6 @@ function renderWorks(projects) {
         </dl>
         <p class="desc">${esc(w.summary)}</p>
         ${w.link ? `<a class="go" href="${esc(w.link)}" target="_blank" rel="noopener">View project →</a>` : ""}
-        ${w.sub && w.sub.length ? `<details class="sub"><summary>Examples · ${w.sub.length}</summary><ul>${w.sub.map((s) => `<li><a href="${esc(s.link)}" target="_blank" rel="noopener">${esc(s.title)}</a></li>`).join("")}</ul></details>` : ""}
       </div>
     </article>`;
   }).join("");

diff --git a/index.html b/index.html
@@ -8,7 +8,7 @@
 <link rel="preconnect" href="https://fonts.googleapis.com">
 <link rel="preconnect" href="https://fonts.gstatic.com" crossorigin>
 <link rel="stylesheet" href="https://fonts.googleapis.com/css2?family=IBM+Plex+Mono:wght@400&family=IBM+Plex+Sans:wght@400;500&family=Noto+Serif+TC:wght@300;400&display=swap">
-<link rel="stylesheet" href="style.css?v=20261119a">
+<link rel="stylesheet" href="style.css?v=20261119b">
 </head>
 <body>
 <header class="top">
@@ -51,6 +51,6 @@
     <span id="updated"></span>
   </footer>
 </main>
-<script src="main.js?v=20261119a"></script>
+<script src="main.js?v=20261119b"></script>
 </body>
 </html>
